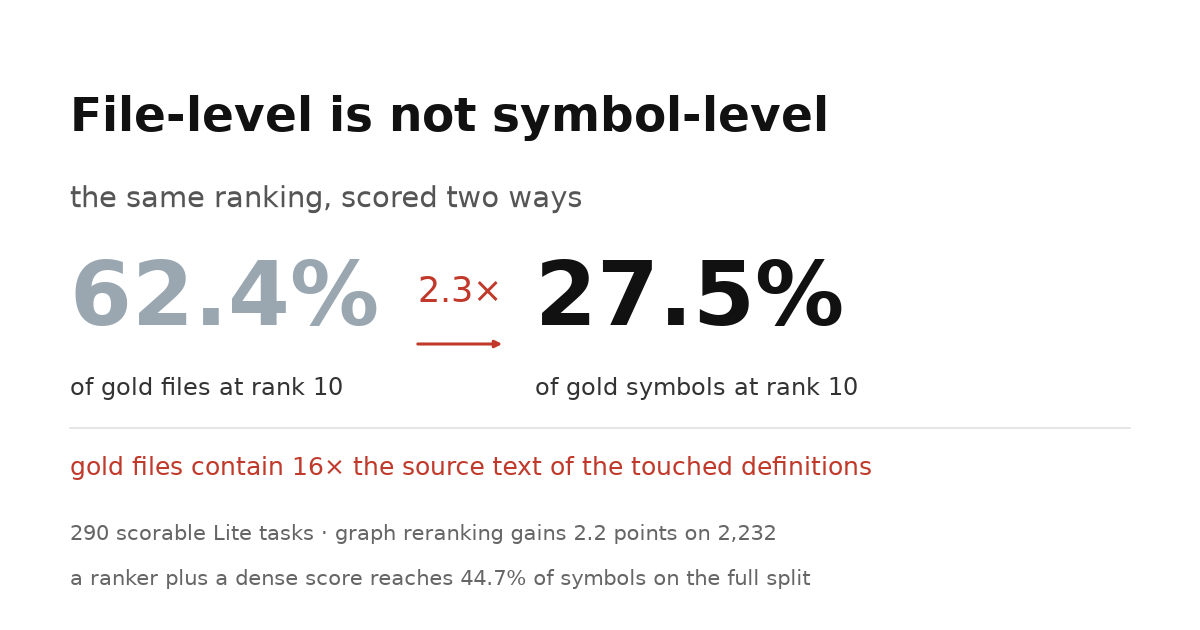
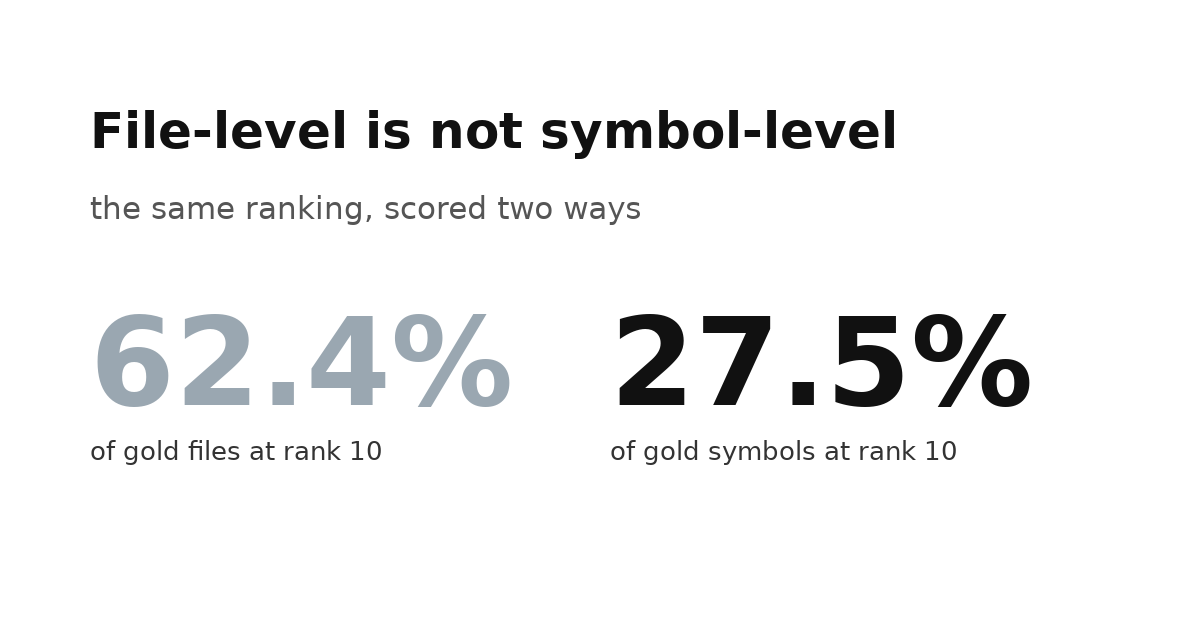
Simplify the writeup thumbnail to the single file/symbol contrast
Drop the arrow, the 16x side note, and the two small footer lines:
at Kaggle's ~300px card size they were noise. One comparison, two
numbers, larger type.

diff --git a/tools/make_thumbnail.py b/tools/make_thumbnail.py
@@ -28,34 +28,20 @@ def main() -> int:
     axes.set_ylim(0, 6.3)
     axes.axis("off")
 
-    axes.text(0.7, 5.35, "File-level is not symbol-level",
-              fontsize=34, fontweight="bold", color="#111111", va="top")
-    axes.text(0.7, 4.45, "the same ranking, scored two ways",
-              fontsize=21, color="#555555", va="top")
+    axes.text(0.9, 5.2, "File-level is not symbol-level",
+              fontsize=36, fontweight="bold", color="#111111", va="top")
+    axes.text(0.9, 4.35, "the same ranking, scored two ways",
+              fontsize=22, color="#555555", va="top")
 
-    axes.text(0.7, 3.05, "62.4%", fontsize=64, fontweight="bold",
+    axes.text(0.9, 2.25, "62.4%", fontsize=88, fontweight="bold",
               color="#9aa7b1", va="baseline")
-    axes.text(0.7, 2.35, "of gold files at rank 10", fontsize=17, color="#333333")
+    axes.text(0.9, 1.70, "of gold files at rank 10", fontsize=19,
+              color="#333333")
 
-    axes.text(5.35, 3.05, "27.5%", fontsize=64, fontweight="bold",
+    axes.text(6.1, 2.25, "27.5%", fontsize=88, fontweight="bold",
               color="#111111", va="baseline")
-    axes.text(5.35, 2.35, "of gold symbols at rank 10", fontsize=17, color="#333333")
-
-    axes.annotate("", xy=(5.05, 2.86), xytext=(4.15, 2.86),
-                  arrowprops=dict(arrowstyle="-|>", lw=2.2, color="#c0392b"))
-    axes.text(4.6, 3.28, "2.3×", fontsize=25, color="#c0392b", ha="center")
-
-    axes.text(0.7, 1.55,
-              "gold files contain 16× the source text of the touched definitions",
-              fontsize=18, color="#c0392b")
-    axes.text(0.7, 0.90,
-              "290 scorable Lite tasks · graph reranking gains 2.2 points on 2,232",
-              fontsize=15, color="#666666")
-    axes.text(0.7, 0.45,
-              "a ranker plus a dense score reaches 44.7% of symbols on the full split",
-              fontsize=15, color="#666666")
-
-    axes.plot([0.7, 11.3], [2.02, 2.02], color="#e0e0e0", lw=1.2)
+    axes.text(6.1, 1.70, "of gold symbols at rank 10", fontsize=19,
+              color="#333333")
 
     out = ROOT / "paper" / "thumbnail.png"
     fig.savefig(out, dpi=100)
